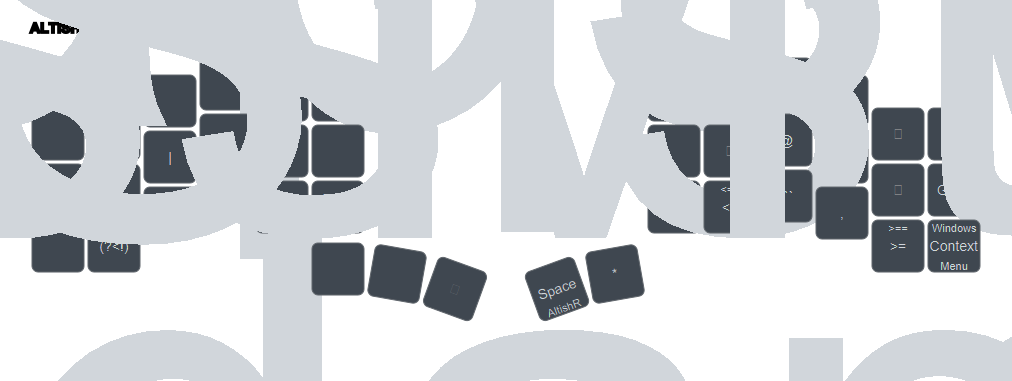
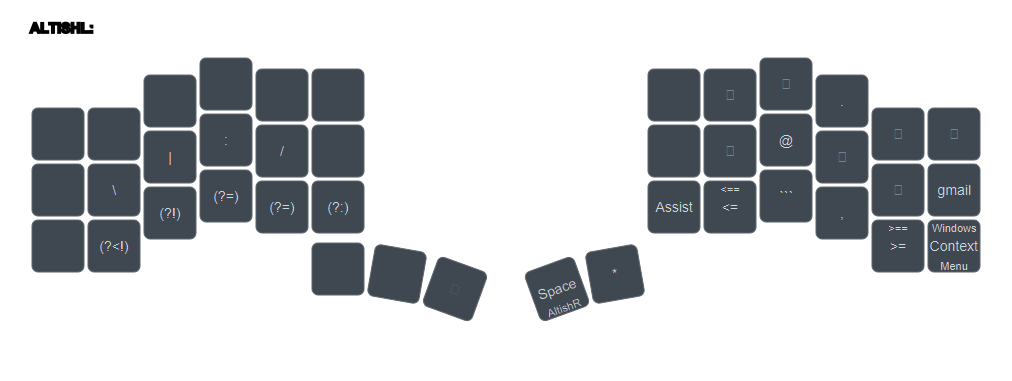
updated some drawer values, fixed png display bug

diff --git a/keyboards/bastardkb/charybdis/3x6/keymaps/eristocrates/keymap.c b/keyboards/bastardkb/charybdis/3x6/keymaps/eristocrates/keymap.c
@@ -128,11 +128,11 @@ const uint16_t PROGMEM keymaps[][MATRIX_ROWS][MATRIX_COLS] = {
   ),
   [_SHIFTISHR] = LAYOUT(
   /* ╭──────────────────────────────────────────────────────╮ ╭──────────────────────────────────────────────────────╮ */
-       _______, _______, _______, _______, _______, SKP_GRM,    XXXXXXX, XXXXXXX, XXXXXXX, XXXXXXX, XXXXXXX, _______,
+       _______, _______, _______, _______, _______, XXXXXXX,    XXXXXXX, XXXXXXX, XXXXXXX, XXXXXXX, XXXXXXX, _______,
   /* ├──────────────────────────────────────────────────────┤ ├──────────────────────────────────────────────────────┤ */
-       _______, LWKEY_C, LTALT_S, LCTRL_T, LSHFT_N, SKP_GRM,    XXXXXXX, KC_H, KC_J, KC_K, KC_L, _______,
+       _______, LWKEY_C, LTALT_S, LCTRL_T, LSHFT_N, XXXXXXX,    XXXXXXX, KC_H, KC_J, KC_K, KC_L, _______,
   /* ├──────────────────────────────────────────────────────┤ ├──────────────────────────────────────────────────────┤ */
-       KC_CAPS, _______, _______, _______, _______, SKP_GRM,    XXXXXXX, KC_LEFT, KC_DOWN, KC_UP, KC_RIGHT, _______,
+       KC_CAPS, _______, _______, _______, _______, XXXXXXX,    XXXXXXX, KC_LEFT, KC_DOWN, KC_UP, KC_RIGHT, _______,
   /* ╰──────────────────────────────────────────────────────┤ ├──────────────────────────────────────────────────────╯ */
                                   XXXXXXX, _______, KC_UNDS,    XXXXXXX, _______
   /*                            ╰───────────────────────────╯ ╰──────────────────╯                                     */
